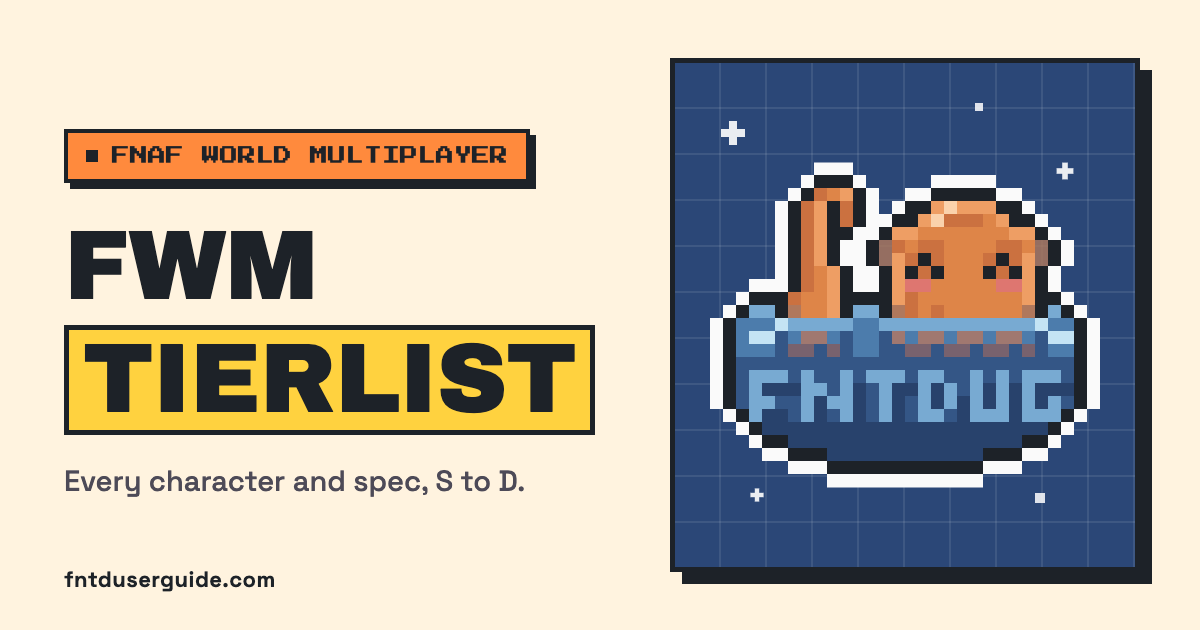
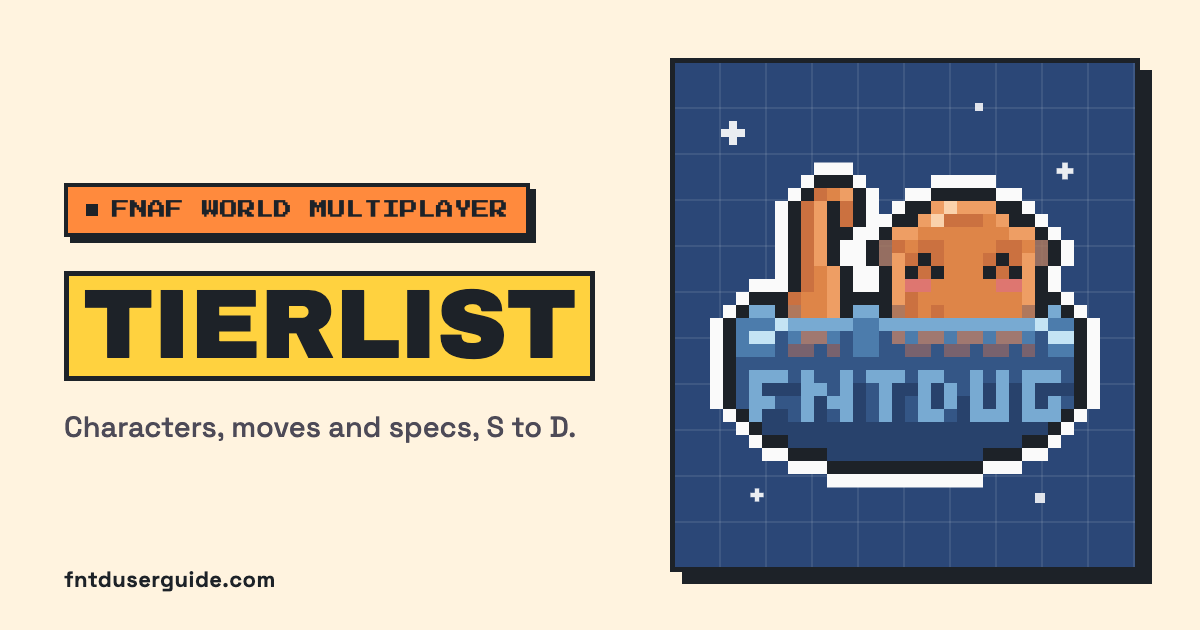
Add a Moves tab to the FWM TierList and move it to /fwm/tierlist
Moves come from the roster's attacks with their own cards and a detail screen
listing who has each one. The Roster now says Moves instead of Attacks, the
old /fwm/tier-list address redirects, and the share image drops the FWM line.

Changed region(s): [[0.0308, 0.181, 0.4933, 0.6937], [0.0308, 0.754, 0.4317, 0.7841]]

diff --git a/fwm/fw.js b/fwm/fw.js
@@ -5,10 +5,10 @@
   var GROUPS = { byte: 'bytes', chip: 'chips', armor: 'armor' };
   var ROMAN = ['', 'I', 'II', 'III', 'IV', 'V'];
   var GAME_ORDER = ["Five Nights at Freddy's", "Five Nights at Freddy's 2", "Five Nights at Freddy's 3", "Five Nights at Freddy's 4", "Five Nights at Freddy's 4: Halloween Edition", 'FNaF World'];
-  var KIND = { party: 'Party member', boss: 'Boss', enemy: 'Enemy', npc: 'NPC', byte: 'Byte', chip: 'Chip', armor: 'Mendo-Armor' };
+  var KIND = { party: 'Party member', boss: 'Boss', enemy: 'Enemy', npc: 'NPC', byte: 'Byte', chip: 'Chip', armor: 'Mendo-Armor', move: 'Move' };
   var HEART = '<path d="M1 0h2v1h1V0h2v1h1v2H6v1H5v1H4v1H3V5H2V4H1V3H0V1h1z"/>';
   var SHIELD = '<path d="M0 0h7v4H6v1H5v1H4v1H3V6H2V5H1V4H0z"/>';
-  var TIER_TABS = [['party', 'party', 'Characters'], ['bytes', 'byte', 'Bytes'], ['chips', 'chip', 'Chips'], ['armor', 'armor', 'Mendo-Armor']];
+  var TIER_TABS = [['party', 'party', 'Characters'], ['moves', 'move', 'Moves'], ['bytes', 'byte', 'Bytes'], ['chips', 'chip', 'Chips'], ['armor', 'armor', 'Mendo-Armor']];
   var TIERS = [{ id: 's', name: 'S', color: '#ff4d6a' }, { id: 'a', name: 'A', color: '#ff9a2e' }, { id: 'b', name: 'B', color: '#ffd93b' }, { id: 'c', name: 'C', color: '#5ccf4f' }, { id: 'd', name: 'D', color: '#4fb4ff' }];
   var COIN = '<path d="M2 0h3v1h1v1h1v3H6v1H5v1H2V6H1V5H0V2h1V1h1zm1 2v3h1V2z"/>';
 
@@ -41,7 +41,7 @@
   }
   function index(data) {
     if (data._ix) return data._ix;
-    var ix = { world: {}, group: { byte: {}, chip: {}, armor: {} }, byId: {}, tabs: { party: [], boss: [], enemy: [], npc: [], byte: [], chip: [], armor: [] } };
+    var ix = { world: {}, group: { byte: {}, chip: {}, armor: {} }, byId: {}, tabs: { party: [], boss: [], enemy: [], npc: [], byte: [], chip: [], armor: [], move: [] } };
     (data.worlds || []).forEach(function (w, i) { w.i = i; ix.world[w.name] = w; });
     Object.keys(GROUPS).forEach(function (k) {
       ((data.groups || {})[GROUPS[k]] || []).forEach(function (gr, i) { gr.i = i; ix.group[k][gr.name] = gr; });
@@ -56,6 +56,16 @@
         ix.tabs[l[1]].push(c);
       });
     });
+    var users = {};
+    (data.party || []).forEach(function (c) { (c.attacks || []).forEach(function (n) { (users[n] = users[n] || []).push(c); }); });
+    Object.keys(data.attacks || {}).forEach(function (n) {
+      var a = data.attacks[n] || {}, c = { name: n, kind: 'move', icon: a.icon, hex: a.hex, color: a.color, type: a.type, description: a.description, damage: a.damage, users: users[n] || [] };
+      c.world = c.users[0] && c.users[0].world;
+      c.id = slug(n);
+      while (ix.byId[c.id]) c.id += '-move';
+      ix.byId[c.id] = c;
+      ix.tabs.move.push(c);
+    });
     data._ix = ix;
     return ix;
   }
@@ -68,6 +78,7 @@
     return gs && c.group ? gs[c.group] || null : null;
   }
   function colorOf(data, c) {
+    if (c.kind === 'move') return c.hex || '#5b6894';
     var gr = groupOf(data, c);
     return gr && gr.color ? gr.color : worldOf(data, c).color;
   }
@@ -145,13 +156,13 @@
   };
 
   FW.card = function (data, c, head) {
-    var hp = hpOf(c), gr = groupOf(data, c), art = c.card || (c.kind === 'chip' && gr ? gr.icon : ''), hd = head && c.head && art;
+    var hp = hpOf(c), gr = groupOf(data, c), art = c.card || (c.kind === 'chip' && gr ? gr.icon : '') || (c.kind === 'move' ? c.icon : ''), hd = head && c.head && art;
     var h = '<li><a class="fw-card fw-card--' + c.kind + (hd ? ' fw-card--head' : '') + '" href="#' + esc(c.id) + '" data-id="' + esc(c.id) + '" style="--wc:' + esc(colorOf(data, c)) + '">';
     h += '<span class="fw-card-art">' + (hd ? '<picture><source media="(max-width:600px)" srcset="' + esc(c.head) + '">' : '') + (art ? '<img src="' + esc(art) + '" alt="" loading="lazy" decoding="async">' : '') + (hd ? '</picture>' : '') + '</span>';
     if (c.kind === 'byte' || c.kind === 'armor') {
       if (hp === 0) h += '<span class="fw-card-hp fw-card-cost" title="Price">Free</span>';
       else if (hp != null) h += '<span class="fw-card-hp fw-card-cost" title="Price"><svg viewBox="0 0 7 7" aria-hidden="true" focusable="false">' + COIN + '</svg>' + fmt(hp) + '<span class="fw-sr"> Faz Tokens</span></span>';
-    } else if (c.kind !== 'npc' && c.kind !== 'chip') h += '<span class="fw-card-hp" title="Health"><svg viewBox="0 0 7 6" aria-hidden="true" focusable="false">' + HEART + '</svg>' + (hp == null ? '?' : fmt(hp)) + '<span class="fw-sr"> health</span></span>';
+    } else if (c.kind !== 'npc' && c.kind !== 'chip' && c.kind !== 'move') h += '<span class="fw-card-hp" title="Health"><svg viewBox="0 0 7 6" aria-hidden="true" focusable="false">' + HEART + '</svg>' + (hp == null ? '?' : fmt(hp)) + '<span class="fw-sr"> health</span></span>';
     if (c.tier && ROMAN[c.tier]) h += '<span class="fw-card-no"><span class="fw-sr">Tier </span>' + ROMAN[c.tier] + '</span>';
     h += '<span class="fw-card-name">' + esc(c.name) + '</span></a></li>';
     return h;
@@ -208,20 +219,38 @@
     return h + '</div>';
   }
 
+  function moveDetail(data, c, extra) {
+    var h = '<div class="fwd-stage"><div class="fwd-char-wrap"><div class="fwd-char fwd-char--move">';
+    if (c.icon) h += '<img class="fwd-anim" src="' + esc(c.icon) + '" alt="' + esc(c.name) + '" decoding="async">';
+    h += '</div></div></div><div class="fwd-info">';
+    h += '<p class="fwd-kicker">' + KIND.move + (c.type ? ' &middot; ' + esc(c.type) : '') + '</p>';
+    h += '<h2 class="fwd-name" id="fwd-name">' + esc(c.name) + '</h2><div class="fwd-chips">';
+    if (c.color) h += '<span class="fwd-chip fwd-chip-w" style="--wc:' + esc(colorOf(data, c)) + '">' + esc(c.color) + '</span>';
+    h += '<span class="fwd-chip">' + c.users.length + (c.users.length === 1 ? ' character has it' : ' characters have it') + '</span>';
+    h += '</div>' + (extra || '');
+    if (c.description) h += panel('What it does', '<p>' + esc(c.description) + '</p>');
+    if (c.damage) h += panel('Damage', '<p class="fwd-atk-f"><code>' + esc(c.damage) + '</code></p>');
+    if (c.users.length) h += panel('Who has it', '<ul class="fwd-users">' + c.users.map(function (u) {
+      return '<li><a href="roster#' + esc(u.id) + '" style="--wc:' + esc(colorOf(data, u)) + '">' + (u.head || u.card ? '<img src="' + esc(u.head || u.card) + '" alt="" loading="lazy" decoding="async">' : '') + esc(u.name) + '</a></li>';
+    }).join('') + '</ul>');
+    return h + '</div>';
+  }
+
   FW.detail = function (data, c, still, extra) {
+    if (c.kind === 'move') return moveDetail(data, c, extra);
     if (GROUPS[c.kind]) return specDetail(data, c, still, extra);
     var ix = index(data), w = worldOf(data, c), party = c.kind === 'party';
     var anim = party && c.attackAnimation && !still;
     var src = still ? c.card : (party ? c.idle : c.image) || c.card;
     var h = '<div class="fwd-stage">';
     h += '<div class="fwd-char-wrap">';
-    if (anim) h += '<button type="button" class="fwd-char" aria-label="Play ' + esc(c.name) + '\'s attack animation">';
+    if (anim) h += '<button type="button" class="fwd-char" aria-label="Play ' + esc(c.name) + '\'s move animation">';
     else h += '<div class="fwd-char">';
     h += '<img class="fwd-anim" src="' + esc(src) + '" alt="' + esc(c.name) + '" decoding="async">';
     h += anim ? '</button>' : '</div>';
     h += '<span class="fwd-ground" aria-hidden="true"></span></div>';
     if (c.quote) h += '<p class="fwd-quote">&ldquo;' + esc(c.quote) + '&rdquo;</p>';
-    if (anim) h += '<p class="fwd-hint">Tap them to see their attack</p>';
+    if (anim) h += '<p class="fwd-hint">Tap them to see a move</p>';
     h += '</div><div class="fwd-info">';
     h += '<p class="fwd-kicker">' + KIND[c.kind] + (c.number ? ' #' + esc(c.number) : '') + (c.update ? ' &middot; ' + esc(c.update) : '') + '</p>';
     h += '<h2 class="fwd-name" id="fwd-name">' + esc(c.name) + '</h2><div class="fwd-chips">';
@@ -238,7 +267,7 @@
       h += '<p class="fwd-stat-v">' + (hp == null ? '?' : fmt(hp)) + '</p>';
       h += hp == null ? '<p class="fwd-stat-note">Not known yet.</p>' : '<span class="fwd-bar"><span style="width:' + Math.round(hp / max * 100) + '%"></span></span>';
       h += '</div></section>';
-      if (c.attacks && c.attacks.length) h += panel('Attacks', '<ul class="fwd-atks">' + c.attacks.map(function (n) {
+      if (c.attacks && c.attacks.length) h += panel('Moves', '<ul class="fwd-atks">' + c.attacks.map(function (n) {
         var a = data.attacks[n] || {};
         var li = '<li class="fwd-atk" style="--c:' + esc(a.hex || '#888') + '">';
         li += a.icon ? '<img src="' + esc(a.icon) + '" alt="" width="212" height="50" loading="lazy" decoding="async">' : '';
@@ -357,7 +386,7 @@
       var items = l[t.id] || [];
       if (!items.length) return;
       h += '<section class="fw-tier" style="--tc:' + esc(t.color || '#ffce1f') + '"><h2 class="fw-tier-h"><span class="fw-tier-l">' + esc(t.name || t.id) + '</span><span class="fw-sr"> tier</span></h2>';
-      h += '<ul class="fw-grid fw-tier-grid">' + items.map(function (v) { return slot(data, tt[1], v); }).join('') + '</ul></section>';
+      h += '<ul class="fw-grid fw-tier-grid fw-tier-grid--' + tt[1] + '">' + items.map(function (v) { return slot(data, tt[1], v); }).join('') + '</ul></section>';
     });
     if (!h) return '<p class="fw-none">Nothing ranked here yet.</p>';
     return (note ? '<p class="fw-tier-note">' + esc(note) + '</p>' : '') + h;

diff --git a/_worker.js b/_worker.js
@@ -46,7 +46,7 @@ const MOBILE_NAV_BODY = `
   <div class="ug-mn-section-items">
     <a href="/fwm/roster"                class="ug-mn-child" data-nav-href="/fwm/roster">Roster</a>
     <a href="/fwm/tech-specs"            class="ug-mn-child" data-nav-href="/fwm/tech-specs">Tech Specs</a>
-    <a href="/fwm/tier-list"             class="ug-mn-child" data-nav-href="/fwm/tier-list">TierList</a>
+    <a href="/fwm/tierlist"             class="ug-mn-child" data-nav-href="/fwm/tierlist">TierList</a>
     <a href="/fwm/meta-teams"            class="ug-mn-child" data-nav-href="/fwm/meta-teams">Meta Teams</a>
   </div>
 </div>
@@ -109,7 +109,7 @@ const DESKTOP_NAV_INNER = `
   <div class="ug-tn-drop">
     <a href="/fwm/roster"                data-nav-href="/fwm/roster">Roster</a>
     <a href="/fwm/tech-specs"            data-nav-href="/fwm/tech-specs">Tech Specs</a>
-    <a href="/fwm/tier-list"             data-nav-href="/fwm/tier-list">TierList</a>
+    <a href="/fwm/tierlist"             data-nav-href="/fwm/tierlist">TierList</a>
     <a href="/fwm/meta-teams"            data-nav-href="/fwm/meta-teams">Meta Teams</a>
   </div>
 </div>
@@ -3628,7 +3628,7 @@ function seoOgName(p) {
   if (p === '/patch-notes') return 'fntd2';
   if (p === '/fwm/tech-specs') return 'fwm-specs';
   if (p === '/fwm/meta-teams') return 'fwm-meta';
-  if (p === '/fwm/tier-list') return 'fwm-tiers';
+  if (p === '/fwm/tierlist') return 'fwm-tiers';
   if (p === '/fwm/fwm-directory') return 'fwm-guide';
   if (p.indexOf('/fwm/') === 0) return 'fwm';
   if (p === '/patch-notes/fntd1-1') return 'fntd1';
@@ -3683,9 +3683,9 @@ const SEO_PAGES = {
   '/wiki': ['Community Wiki | FNTD User Guide', 'Wiki pages for Five Nights TD 2, Five Nights TD and Bite By Night, written by the community and built block by block.'],
   '/fwm/fwm-directory': ['FNaF World Multiplayer Guide: Roblox FWM Roster & Specs', 'The FNaF World Multiplayer (FWM) guide for Roblox: the full Roster, every Byte, Chip and armor upgrade in Tech Specs, a TierList and the best Meta Teams.'],
   '/fwm/tech-specs': ['FWM Tech Specs: FNaF World Multiplayer Bytes, Chips & Armor', 'Every Byte, Chip and Mendo-Armor upgrade in FNaF World Multiplayer on Roblox: what each does, what it costs and where to find every chip.'],
-  '/fwm/tier-list': ['FWM TierList: Best FNaF World Multiplayer Characters', 'FNaF World Multiplayer tier list for Roblox: every party member, Byte and Chip ranked from S to D, with notes on why each one sits where it does.'],
+  '/fwm/tierlist': ['FWM TierList: Best FNaF World Multiplayer Characters', 'FNaF World Multiplayer tier list for Roblox: every party member, move, Byte and Chip ranked from S to D, with notes on why each one sits where it does.'],
   '/fwm/meta-teams': ['FWM Meta Teams: Best FNaF World Multiplayer Teams', 'The best FNaF World Multiplayer teams on Roblox: both parties of four characters, plus the four Bytes and four Chips to equip with each team.'],
-  '/fwm/roster': ['FWM Roster: Every FNaF World Multiplayer Character', 'Every FNaF World Multiplayer character on Roblox: all 48 party members with health, attacks and how to unlock them, plus every boss, enemy and NPC.'],
+  '/fwm/roster': ['FWM Roster: Every FNaF World Multiplayer Character', 'Every FNaF World Multiplayer character on Roblox: all 48 party members with health, moves and how to unlock them, plus every boss, enemy and NPC.'],
   '/sponsor': ['Sponsor the FNTD User Guide | Reach Roblox Players', 'Sponsor the FNTD User Guide to put your Roblox game or product in front of Five Nights TD 2, Five Nights TD and Bite By Night players.'],
   '/privacy-policy': ['Privacy Policy | FNTD User Guide', 'How the FNTD User Guide handles your data: what is collected when you visit, how it is used, and who it is shared with.']
 };
@@ -4349,12 +4349,13 @@ function seoFwmSlug(s) {
   return String(s || '').toLowerCase().replace(/&/g, 'and').replace(/'/g, '').replace(/[^a-z0-9]+/g, '-').replace(/^-+|-+$/g, '') || 'x';
 }
 function seoFwmLink(name, page) {
+  if (!page) return seoEsc(name);
   return '<a href="/fwm/' + page + '#' + encodeURIComponent(seoFwmSlug(name)) + '">' + seoEsc(name) + '</a>';
 }
 function seoFwmTierHtml(d) {
   if (!d || !d.lists) return '';
   const tiers = Array.isArray(d.tiers) && d.tiers.length ? d.tiers : ['s', 'a', 'b', 'c', 'd'].map(id => ({ id, name: id.toUpperCase() }));
-  const tabs = [['party', 'Characters', 'roster'], ['bytes', 'Bytes', 'tech-specs'], ['chips', 'Chips', 'tech-specs'], ['armor', 'Mendo-Armor', 'tech-specs']];
+  const tabs = [['party', 'Characters', 'roster'], ['moves', 'Moves', ''], ['bytes', 'Bytes', 'tech-specs'], ['chips', 'Chips', 'tech-specs'], ['armor', 'Mendo-Armor', 'tech-specs']];
   const out = ['<h2>FNaF World Multiplayer TierList</h2>'];
   tabs.forEach(([k, label, page]) => {
     const l = d.lists[k];
@@ -4392,7 +4393,7 @@ function seoFwmHtml(d) {
   const val = v => v == null || v === '' ? '?' : seoEsc(typeof v === 'number' ? seoNum(v) : v);
   const pair = o => o ? val(o.normal) + ' / ' + val(o.hard) : '?';
   const out = ['<h2>FNaF World Multiplayer roster</h2><p>' + d.party.length + ' party members, ' + (d.bosses || []).length + ' bosses, ' + (d.enemies || []).length + ' enemies and ' + (d.npcs || []).length + ' NPCs in FNaF World Multiplayer on Roblox.</p>'];
-  out.push('<h3>Party members</h3><div class="ug-seo-wrap"><table><thead><tr><th>Character</th><th>World</th><th>Health</th><th>Attacks</th><th>How to get</th></tr></thead><tbody>' +
+  out.push('<h3>Party members</h3><div class="ug-seo-wrap"><table><thead><tr><th>Character</th><th>World</th><th>Health</th><th>Moves</th><th>How to get</th></tr></thead><tbody>' +
     d.party.filter(c => c && c.name).map(c => '<tr><td>' + link(c) + '</td><td>' + seoEsc(c.world || '') + '</td><td>' + val(c.health) + '</td><td>' + seoEsc((c.attacks || []).join(', ')) + '</td><td>' + seoEsc(c.unlock || '') + '</td></tr>').join('') +
     '</tbody></table></div>');
   [['bosses', 'Bosses'], ['enemies', 'Enemies']].forEach(k => {
@@ -4409,8 +4410,8 @@ function seoFwmHtml(d) {
 
 async function seoSsr(realPath, pageSrc) {
   const p = seoPath(realPath);
-  if (p === '/fwm/roster' || p === '/fwm/tech-specs' || p === '/fwm/meta-teams' || p === '/fwm/tier-list') {
-    const specs = p === '/fwm/tech-specs', metas = p === '/fwm/meta-teams', tiers = p === '/fwm/tier-list';
+  if (p === '/fwm/roster' || p === '/fwm/tech-specs' || p === '/fwm/meta-teams' || p === '/fwm/tierlist') {
+    const specs = p === '/fwm/tech-specs', metas = p === '/fwm/meta-teams', tiers = p === '/fwm/tierlist';
     const d = await seoTimed(seoLoadFwm(tiers ? 'fnafworldtiers.json' : metas ? 'fnafworldmeta.json' : specs ? 'fnafworldspecs.json' : 'fnafworld.json'), 2500);
     let html = '';
     try { html = tiers ? seoFwmTierHtml(d) : metas ? seoFwmMetaHtml(d) : specs ? seoFwmSpecsHtml(d) : seoFwmHtml(d); } catch (e) { html = ''; }
@@ -4492,7 +4493,7 @@ const SITEMAP_DATA = {
   '/fwm/roster': ['fnafworld.json'],
   '/fwm/tech-specs': ['fnafworldspecs.json'],
   '/fwm/meta-teams': ['fnafworldmeta.json'],
-  '/fwm/tier-list': ['fnafworldtiers.json']
+  '/fwm/tierlist': ['fnafworldtiers.json']
 };
 const SITEMAP_SEED = {
   'a:/': '2026-10-14T03:09:51Z', 'a:/overhaul/': '2026-10-15T19:44:48Z', 'a:/fntd2/fntd2-directory': '2026-10-14T20:39:46Z', 'a:/fntd2/fntd2-index': '2026-09-20T00:07:03Z',
@@ -4631,6 +4632,7 @@ const PAGE_NOTES_SCRIPT = `<script>
 })();
 <\/script>`;
 const PV_POP_FILES = { '404': '404', wip: 'maintenance', outage: 'outage', tip: 'tip', update: 'update' };
+const PAGE_MOVED = { '/fwm/tier-list': '/fwm/tierlist' };
 const OV_MOVED = { '/overhaul/meta-teams': '/overhaul/fntd2/meta-teams', '/overhaul/unit-engine': '/overhaul/fntd2/unit-engine' };
 const OV_HEAD = '<link rel="preconnect" href="https://fonts.googleapis.com"><link rel="preconnect" href="https://fonts.gstatic.com" crossorigin><link rel="stylesheet" href="/overhaul/ov-base.css"><link rel="stylesheet" href="/overhaul/ov.css"><link rel="stylesheet" href="/overhaul/ov-kit.css"><link rel="stylesheet" href="/overhaul/ov-a11y.css"><script src="/overhaul/ov-a11y.js"><\/script><script src="/overhaul/ov.js"><\/script>';
 const OV_FONTS = 'https://fonts.googleapis.com/css2?family=Archivo+Black&family=Audiowide&family=JetBrains+Mono:wght@400;700&family=Press+Start+2P&family=Space+Grotesk:wght@400;500;700&display=swap';
@@ -8617,6 +8619,8 @@ export default {
       });
     }
 
+    const pageMoved = PAGE_MOVED[url.pathname.replace(/^\/overhaul(?=\/)/, '').replace(/(\.html|\/)$/, '')];
+    if (pageMoved) return Response.redirect(new URL((url.pathname.indexOf('/overhaul/') === 0 ? '/overhaul' : '') + pageMoved + url.search + url.hash, url).toString(), 301);
     if (url.pathname === '/sitemap-units.xml') return seoUnitSitemap(env, url);
     if (url.pathname === '/sitemap.xml') return seoSitemap(env, url);
     if (url.pathname === '/llms.txt') return seoLlms();

diff --git a/fwm/fw.css b/fwm/fw.css
@@ -232,8 +232,22 @@ button.fwd-char:hover .fwd-anim{transform:scale(1.03)}
 .fw .fw-tier-grid{grid-template-columns:repeat(auto-fill,minmax(104px,1fr));gap:10px;align-content:start}
 .fw .fw-tier-grid .fw-card{height:auto}
 .fw-tier-grid .fw-card-hp{display:none}
-.fw-tier-grid .fw-card-name{min-height:36px;padding:4px;font-size:13px}
+.fw-tier-grid .fw-card-name{min-height:36px;padding:4px 8px;font-size:13px}
 .fw-tier-grid .fw-card-art{padding:10px 4px 2px}
 .fwd-tier-b{display:grid;place-items:center;flex:none;width:58px;height:58px;color:#fff;font:400 32px/1 'Lilita One',system-ui,sans-serif;text-shadow:0 2px 0 var(--fwi),2px 0 0 var(--fwi),-2px 0 0 var(--fwi),0 -2px 0 var(--fwi),1.5px 1.5px 0 var(--fwi),-1.5px 1.5px 0 var(--fwi),1.5px -1.5px 0 var(--fwi),-1.5px -1.5px 0 var(--fwi),0 4px 0 var(--fwi);background:linear-gradient(180deg,rgba(255,255,255,.34),rgba(255,255,255,0) 55%,rgba(0,0,0,.14)),var(--tc);border:3px solid var(--fwi);border-radius:12px;box-shadow:0 3px 0 var(--fwi),inset 0 2px 0 rgba(255,255,255,.45)}
 .fwd-panel .fwd-tier-m{margin-top:4px;font-size:15.5px;line-height:1.5}
 @media (max-width:600px){.fw-tier{grid-template-columns:minmax(0,1fr);gap:8px;margin-top:10px;padding:7px}.fw-tier-h{justify-content:flex-start;min-height:40px;padding:0 14px;font-size:28px;border-radius:10px;box-shadow:0 3px 0 var(--fwi),inset 0 2px 0 rgba(255,255,255,.45)}.fw .fw-tier-grid{grid-template-columns:repeat(3,minmax(0,1fr));gap:6px}.fw-tier-grid .fw-card-name{font-size:12px;min-height:34px;padding:3px}.fw-tier-grid .fw-card-art{padding:8px 3px 3px}.fw .fw-tier-grid .fw-card--head{aspect-ratio:auto}.fw-tier-grid .fw-card--head .fw-card-art{flex:none;aspect-ratio:1/1;padding:0}.fw-tier-grid .fw-card--head .fw-card-art img,#ug-content .fw .fw-tier-grid .fw-card--head .fw-card-art img{width:100%;height:100%;max-width:none;max-height:none;object-fit:cover;object-position:50% 0;filter:none}.fw-tier-note{font-size:16px}}
+.fw .fw-tier-grid--move{grid-template-columns:repeat(auto-fill,minmax(150px,1fr))}
+.fw .fw-tier-grid--move .fw-card{aspect-ratio:auto}
+.fw-card--move .fw-card-art{flex:none;height:72px;align-items:center;padding:10px 8px}
+.fw-card--move .fw-card-art img,#ug-content .fw .fw-card--move .fw-card-art img{width:100%;height:auto;max-height:100%;object-fit:contain;filter:drop-shadow(0 3px 0 rgba(7,11,28,.35))}
+.fwd-char--move .fwd-anim{width:min(440px,36vw);height:auto;aspect-ratio:auto}
+.fwd-users{display:flex;flex-wrap:wrap;gap:10px;margin:0;padding:0;list-style:none}
+.fwd-users li{margin:0;padding:0}
+.fwd-users li::before,.fwd-users li::marker{content:none}
+.fwd-users a{display:inline-flex;align-items:center;gap:8px;min-height:44px;padding:4px 14px 4px 4px;color:#fff;text-decoration:none;font:400 16px/1.1 'Lilita One',system-ui,sans-serif;letter-spacing:.02em;text-shadow:0 2px 0 var(--fwi),1.5px 0 0 var(--fwi),-1.5px 0 0 var(--fwi),0 -1.5px 0 var(--fwi);background:var(--wc);border:3px solid var(--fwi);border-radius:999px;box-shadow:0 3px 0 var(--fwi);transition:transform .08s,box-shadow .08s}
+.fwd-users a:hover{transform:translateY(-2px);box-shadow:0 5px 0 var(--fwi)}
+.fwd-users a:focus-visible{outline:3px solid #fff;outline-offset:3px}
+.fwd-users img{flex:none;width:34px;height:34px;object-fit:cover;object-position:50% 0;background:rgba(255,255,255,.25);border:2px solid var(--fwi);border-radius:50%}
+@media (max-width:860px){.fwd-char--move .fwd-anim{width:min(340px,82vw)}}
+@media (max-width:600px){.fw .fw-tier-grid--move{grid-template-columns:repeat(2,minmax(0,1fr))}.fw-card--move .fw-card-art{height:60px}}

diff --git a/fwm/roster.html b/fwm/roster.html
@@ -24,7 +24,7 @@
       <div class="ug-page-title-area">
         <div class="ug-page-title">FWM Roster</div>
         <div class="ug-status-badge" data-gh-file="fnafworld.json" data-gh-repo="FNTDUG/characters.json">(Up-To-Date!)</div>
-        <p class="ug-page-desc" style="margin-top:8px">Every character in FNaF World Multiplayer on Roblox: all 48 party members, plus every boss, enemy and NPC. Tap one to see their stats, attacks and the world they come from.</p>
+        <p class="ug-page-desc" style="margin-top:8px">Every character in FNaF World Multiplayer on Roblox: all 48 party members, plus every boss, enemy and NPC. Tap one to see their stats, moves and the world they come from.</p>
       </div>
       <div style="text-align:center;margin-bottom:18px"><div id="cleanModeToggle" class="clean-pill">Clean-Mode: Off</div></div><div class="clean-text">Ads help keep this site running.<br>Turn on Clean-Mode for an Ad-free experience.</div><div class="ad-slot" style="margin-top:14px"><ins class="adsbygoogle" style="display:block" data-ad-client="ca-pub-7017245771068026" data-ad-slot="9010982209" data-ad-format="auto" data-full-width-responsive="true"></ins><script>(adsbygoogle = window.adsbygoogle || []).push({});</script></div>
     </div></div>

diff --git a/fwm/tierlist.html b/fwm/tierlist.html
@@ -24,7 +24,7 @@
       <div class="ug-page-title-area">
         <div class="ug-page-title">FWM TierList</div>
         <div class="ug-status-badge" data-gh-file="fnafworldtiers.json" data-gh-repo="FNTDUG/characters.json">(Up-To-Date!)</div>
-        <p class="ug-page-desc" style="margin-top:8px">Every character, Byte and Chip in FNaF World Multiplayer on Roblox, ranked from S to D. Tap anything to see its stats and why it sits where it does.</p>
+        <p class="ug-page-desc" style="margin-top:8px">Every character, move, Byte and Chip in FNaF World Multiplayer on Roblox, ranked from S to D. Tap anything to see its stats and why it sits where it does.</p>
       </div>
       <div style="text-align:center;margin-bottom:18px"><div id="cleanModeToggle" class="clean-pill">Clean-Mode: Off</div></div><div class="clean-text">Ads help keep this site running.<br>Turn on Clean-Mode for an Ad-free experience.</div><div class="ad-slot" style="margin-top:14px"><ins class="adsbygoogle" style="display:block" data-ad-client="ca-pub-7017245771068026" data-ad-slot="9010982209" data-ad-format="auto" data-full-width-responsive="true"></ins><script>(adsbygoogle = window.adsbygoogle || []).push({});</script></div>
     </div></div>

diff --git a/fwm/fwm-directory.html b/fwm/fwm-directory.html
@@ -75,12 +75,12 @@
         </div>
         <div class="bbn-dir-col">
           <div class="bbn-dir-label">TierList</div>
-          <a href="/fwm/tier-list" class="bbn-dir-btn">
+          <a href="/fwm/tierlist" class="bbn-dir-btn">
             <div class="bbn-glow-card">
               <img src="https://fnaf-world.fntduserguide.com/dir/tier-list.webp" alt="TierList" width="640" height="640" loading="lazy">
             </div>
           </a>
-          <div class="bbn-dir-desc"><p>Every character, Byte and Chip ranked from S to D, with why each one sits where it does.</p></div>
+          <div class="bbn-dir-desc"><p>Every character, move, Byte and Chip ranked from S to D, with why each one sits where it does.</p></div>
         </div>
         <div class="bbn-dir-col">
           <div class="bbn-dir-label">Meta Teams</div>

diff --git a/overhaul/ov.js b/overhaul/ov.js
@@ -176,7 +176,7 @@
     '/bbn/codes': { tint: 'blue', go: 'Open Codes' },
     '/fwm/roster': { tint: 'yellow', go: 'Open the Roster' },
     '/fwm/tech-specs': { tint: 'green', go: 'Open Tech Specs' },
-    '/fwm/tier-list': { tint: 'pink', go: 'Open the TierList' },
+    '/fwm/tierlist': { tint: 'pink', go: 'Open the TierList' },
     '/fwm/meta-teams': { tint: 'blue', go: 'Open Meta Teams' }
   };
   function directory() {
